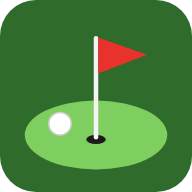
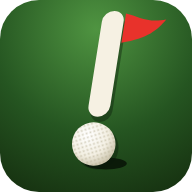
Rebrand as Fore!
New wordmark: the O is a dimpled golf ball, the exclamation mark is the
flagstick with the cup as its dot, and a dotted flight joins them. The app
icon is the exclamation mark alone, with the ball as the dot. Out-of-bounds
shots now shout Fore!. Saved games and settings keep their storage keys.

Claude-Session: https://claude.ai/code/session_01Bj8ZxTUu5SpNKAcssjEucH

diff --git a/index.html b/index.html
@@ -3,17 +3,17 @@
 <head>
   <meta charset="utf-8">
   <meta name="viewport" content="width=device-width, initial-scale=1, maximum-scale=1, user-scalable=no, viewport-fit=cover">
-  <meta name="theme-color" content="#1f3d1b">
+  <meta name="theme-color" content="#16310f">
   <meta name="apple-mobile-web-app-capable" content="yes">
   <meta name="mobile-web-app-capable" content="yes">
   <meta name="apple-mobile-web-app-status-bar-style" content="black-translucent">
-  <meta name="description" content="Golfy — a pocket golf game with real ball physics and endless procedurally generated courses.">
-  <title>Golfy</title>
+  <meta name="description" content="Fore! — a pocket golf game with real ball physics and endless procedurally generated courses.">
+  <title>Fore!</title>
   <link rel="manifest" href="manifest.webmanifest">
   <link rel="icon" href="icon.svg" type="image/svg+xml">
   <link rel="icon" href="icons/icon-192.png" sizes="192x192" type="image/png">
   <link rel="apple-touch-icon" href="icons/icon-180.png">
-  <meta name="apple-mobile-web-app-title" content="Golfy">
+  <meta name="apple-mobile-web-app-title" content="Fore!">
   <link rel="stylesheet" href="css/style.css">
 </head>
 <body>
@@ -72,8 +72,44 @@
 
     <div id="menu" class="overlay">
       <div class="card">
-        <h1>Golfy<span class="flag">⛳</span></h1>
-        <p class="tag">Procedural pocket golf</p>
+        <h1><span class="sr-only">Fore!</span>
+          <svg class="logo" viewBox="0 0 430 140" aria-hidden="true">
+            <defs>
+              <radialGradient id="fore-ball" cx="0.36" cy="0.3" r="0.78">
+                <stop offset="0" stop-color="#ffffff"/><stop offset="0.6" stop-color="#f3efe2"/><stop offset="1" stop-color="#c9c1a8"/>
+              </radialGradient>
+              <pattern id="fore-dimples" width="10" height="10" patternUnits="userSpaceOnUse" patternTransform="rotate(28)">
+                <circle cx="2.5" cy="2.5" r="1.9" fill="#b3ab90" opacity="0.5"/><circle cx="7.5" cy="7.5" r="1.9" fill="#b3ab90" opacity="0.5"/>
+              </pattern>
+              <clipPath id="fore-ballclip"><circle cx="144" cy="70" r="44"/></clipPath>
+            </defs>
+            <!-- flight: off the ball, over the letters, into the cup -->
+            <path d="M178 34 C232 -24 352 -28 368 106" fill="none" stroke="#f6f1e3" stroke-opacity="0.32" stroke-width="3" stroke-dasharray="2 9" stroke-linecap="round"/>
+            <g transform="translate(16 0) skewX(-9)">
+              <g transform="translate(5 6)" fill="none" stroke="#0b1a09" stroke-opacity="0.45" stroke-width="24" stroke-linecap="round" stroke-linejoin="round">
+                <path d="M34 115 V25 H82 M34 68 H72"/>
+                <path d="M210 115 V25 H238 a22 22 0 0 1 0 44 H210 M238 69 L264 115"/>
+                <path d="M338 25 H296 V115 H338 M296 70 H330"/>
+                <path d="M380 14 V86" stroke-width="15"/>
+              </g>
+              <g fill="none" stroke="#f6f1e3" stroke-width="24" stroke-linecap="round" stroke-linejoin="round">
+                <path d="M34 115 V25 H82 M34 68 H72"/>
+                <path d="M210 115 V25 H238 a22 22 0 0 1 0 44 H210 M238 69 L264 115"/>
+                <path d="M338 25 H296 V115 H338 M296 70 H330"/>
+                <path d="M380 12 V88" stroke-width="15"/>
+              </g>
+              <path d="M387 6 C397 9 405 15 421 12 C414 21 407 30 387 34 Z" fill="#e8322b"/>
+            </g>
+            <!-- O: the ball (kept round, outside the slant) -->
+            <circle cx="149" cy="76" r="44" fill="#0b1a09" fill-opacity="0.45"/>
+            <circle cx="144" cy="70" r="44" fill="url(#fore-ball)"/>
+            <rect x="96" y="22" width="96" height="96" fill="url(#fore-dimples)" clip-path="url(#fore-ballclip)"/>
+            <!-- the dot of the !: the cup -->
+            <ellipse cx="375" cy="116" rx="17" ry="7.5" fill="#0b1a09"/>
+            <path d="M358 116.5 a17 7.5 0 0 0 34 0" fill="none" stroke="#f6f1e3" stroke-opacity="0.4" stroke-width="2.5"/>
+          </svg>
+        </h1>
+        <p class="tag">Pocket golf · endless courses</p>
         <div id="continue-wrap" class="hidden">
           <button class="primary" id="btn-continue">Continue round</button>
           <p class="small muted" id="continue-info"></p>

diff --git a/css/style.css b/css/style.css
@@ -320,7 +320,8 @@ button {
 }
 .card.wide { max-width: 560px; }
 .card h1 { margin: 0; font-size: 44px; letter-spacing: -0.02em; }
-.card h1 .flag { font-size: 34px; margin-left: 6px; }
+.card h1 .logo { display: block; width: 100%; max-width: 300px; height: auto; margin: -4px 0 0 -6px; overflow: visible; }
+.sr-only { position: absolute; width: 1px; height: 1px; overflow: hidden; clip: rect(0 0 0 0); white-space: nowrap; }
 .card h2 { margin: 0 0 4px; font-size: 26px; }
 .tag { margin: 2px 0 18px; color: var(--muted); }
 .field { display: block; font-size: 13px; color: var(--muted); margin-bottom: 6px; }

diff --git a/sw.js b/sw.js
@@ -1,7 +1,7 @@
 // Offline support: cache the whole game on first visit, then serve it from the device.
 // Strategy: stale-while-revalidate — instant (and offline) loads from the cache, with a background
 // refresh whenever the network is available, so updates arrive on the next launch.
-const VERSION = 'golfy-v6';
+const VERSION = 'fore-v7';
 const ASSETS = [
   './',
   'index.html',
@@ -16,6 +16,7 @@ const ASSETS = [
   'js/game.js',
   'manifest.webmanifest',
   'icon.svg',
+  'logo.svg',
   'icons/icon-180.png',
   'icons/icon-192.png',
   'icons/icon-512.png',

diff --git a/js/game.js b/js/game.js
@@ -703,7 +703,7 @@
       if (t === T.OOB) {
         game.strokes++;
         game.settleT = 1.4;
-        toast('Out of bounds', 'Stroke & distance +1', 1600);
+        toast('Fore!', 'Out of bounds · stroke & distance +1', 1600);
         game.afterSettle = () => {
           b.x = game.shotStart.x;
           b.y = game.shotStart.y;

diff --git a/README.md b/README.md
@@ -1,4 +1,6 @@
-# Golfy ⛳
+<p align="center"><img src="logo.svg" alt="Fore!" width="420"></p>
+
+# Fore!
 
 A mobile-first golf mini game for the browser: real ball physics, a classic
 three-click swing meter and endless procedurally generated 9-hole courses.
@@ -6,7 +8,7 @@ No build step and no dependencies, so it runs straight from GitHub Pages.
 
 ## Play offline / install as an app
 
-Golfy is an installable web app (PWA): after the first visit everything is cached on the device, so it
+Fore! is an installable web app (PWA): after the first visit everything is cached on the device, so it
 plays with no connection and launches full-screen from the home screen.
 
 - **iPhone / iPad (Safari):** open the site, tap **Share → Add to Home Screen**.
